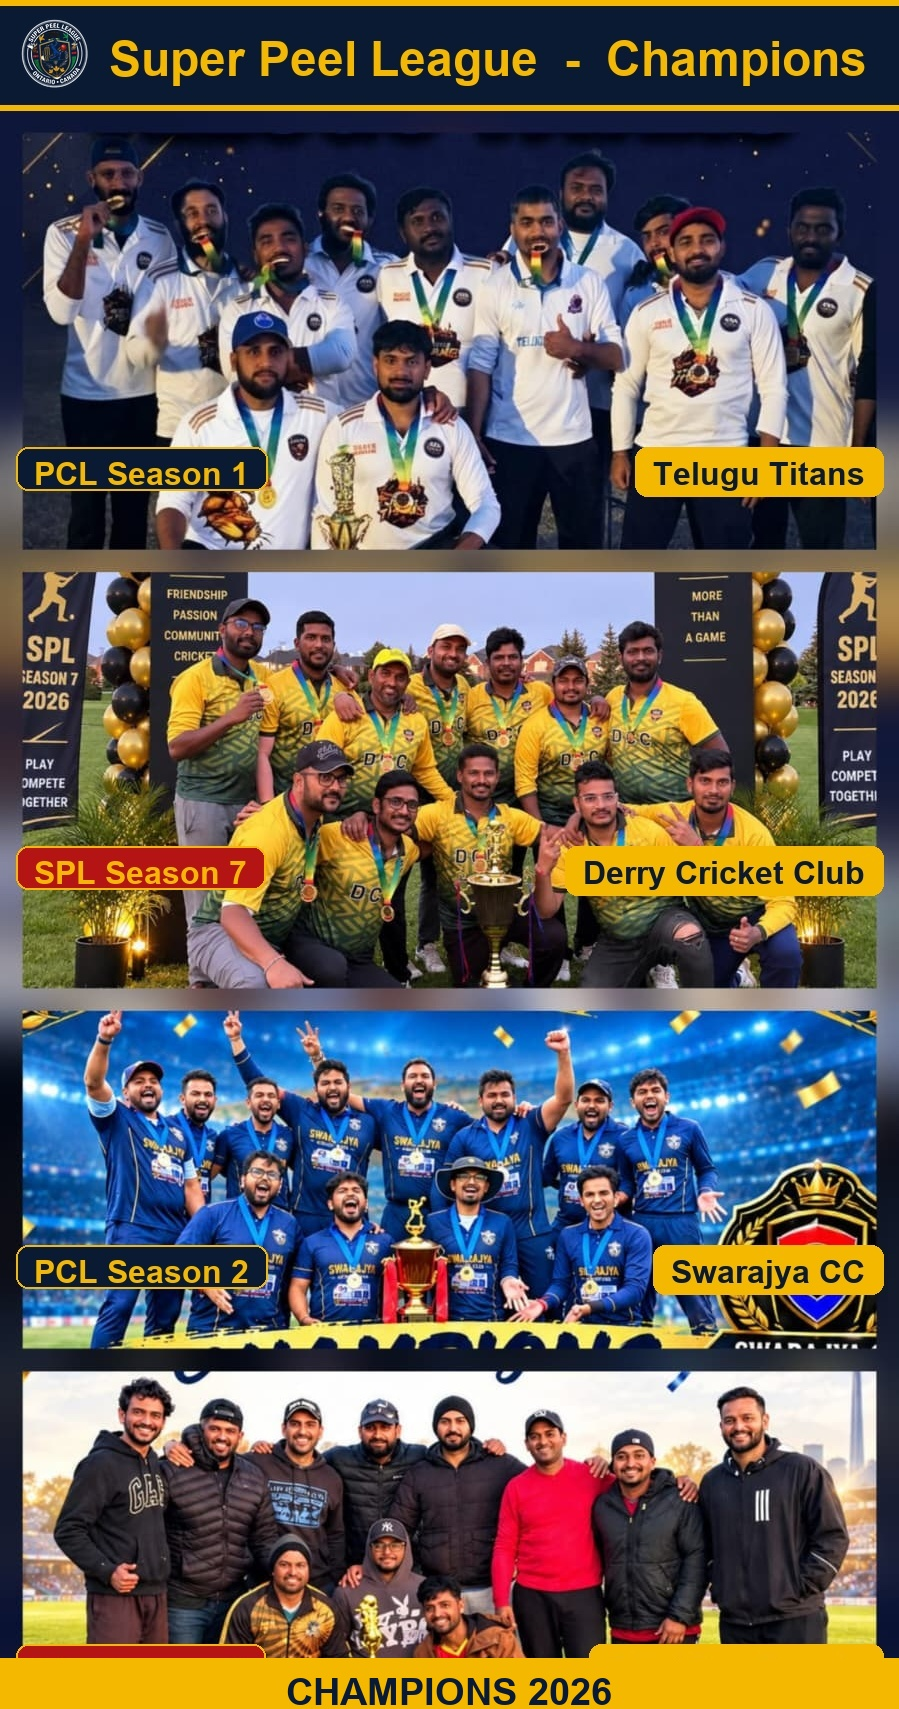
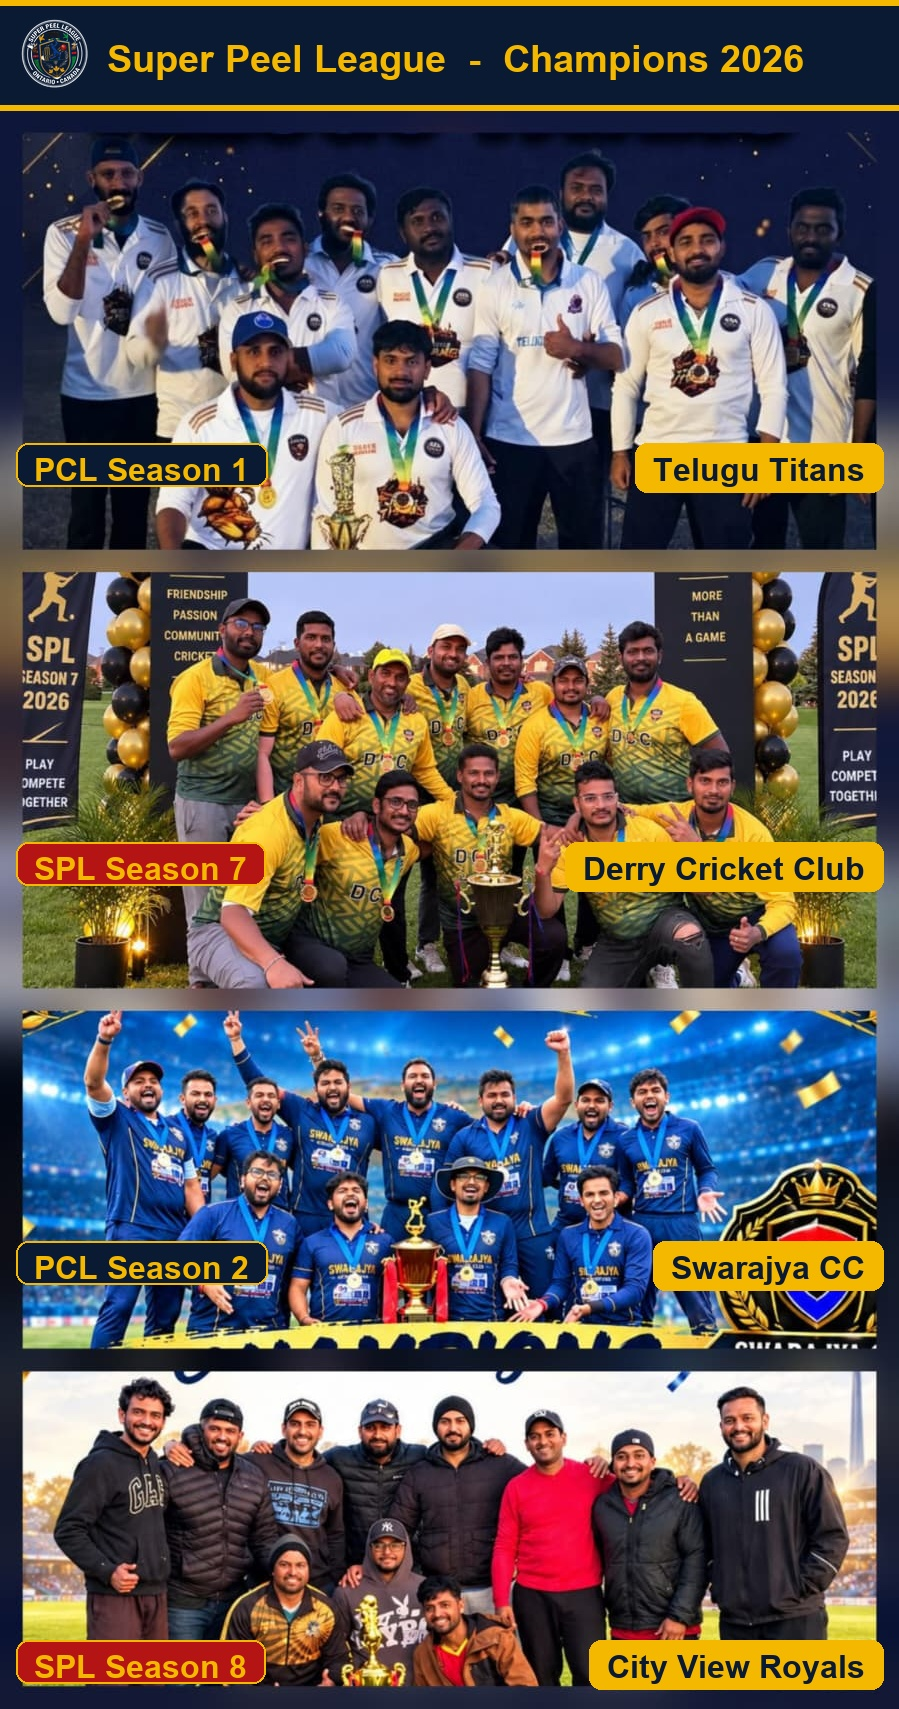
feat: move stats below champion chips, collage fills full right column, fix collage header

diff --git a/src/index.css b/src/index.css
@@ -115,10 +115,9 @@ h1, h2, h3 { font-family: var(--display); text-transform: uppercase; letter-spac
 .about-champ-ball { flex-shrink: 0; line-height: 0; }
 .about-champ-chip small { display: block; font-size: 0.67rem; text-transform: uppercase; letter-spacing: 0.14em; color: var(--gold); font-weight: 700; margin-bottom: 3px; }
 .about-champ-chip strong { display: block; font-family: var(--display); font-size: 1rem; text-transform: uppercase; }
-.about-right { display: flex; flex-direction: column; gap: 20px; }
-.about-collage-wrap { flex: 1; min-height: 0; border-radius: var(--radius); overflow: hidden; box-shadow: 0 12px 40px rgba(0,0,0,0.4); border: 2px solid rgba(245,184,0,0.3); }
+.about-collage-wrap { border-radius: var(--radius); overflow: hidden; box-shadow: 0 12px 40px rgba(0,0,0,0.4); border: 2px solid rgba(245,184,0,0.3); align-self: stretch; }
 .about-collage { width: 100%; height: 100%; object-fit: cover; object-position: top; display: block; }
-.stats { display: grid; grid-template-columns: 1fr 1fr; gap: 18px; }
+.stats { display: grid; grid-template-columns: 1fr 1fr; gap: 18px; margin-top: 20px; }
 .stat { padding: 30px 24px; border-radius: var(--radius); background: var(--bg-alt); border-left: 5px solid var(--gold); }
 .stat:nth-child(2), .stat:nth-child(3) { background: var(--navy); color: #fff; }
 .stat b { display: block; font-family: var(--display); font-size: 3rem; line-height: 1; }

diff --git a/src/App.jsx b/src/App.jsx
@@ -197,16 +197,6 @@ function About() {
               </div>
             ))}
           </div>
-        </div>
-        <div className="about-right">
-          <div className="about-collage-wrap">
-            <img
-              src="/gallery/champions_collage.jpg"
-              alt="SPL Champions Collage"
-              className="about-collage"
-              loading="lazy"
-            />
-          </div>
           <div className="stats">
             {stats.map((s) => (
               <div key={s.label} className="stat">
@@ -215,6 +205,14 @@ function About() {
               </div>
             ))}
           </div>
+        </div>
+        <div className="about-collage-wrap">
+          <img
+            src="/gallery/champions_collage.jpg"
+            alt="SPL Champions Collage"
+            className="about-collage"
+            loading="lazy"
+          />
         </div>
       </div>
     </section>
